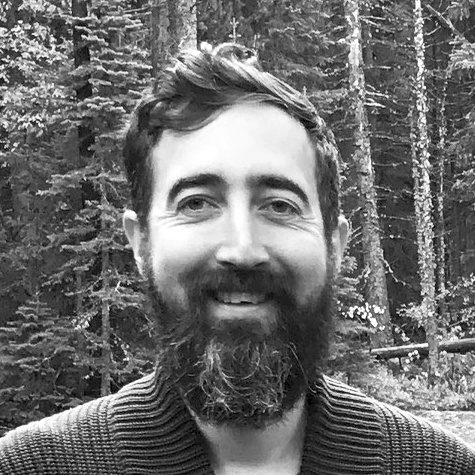
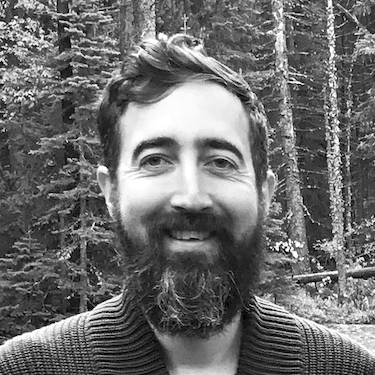
adjusted CSS for iPhone bg

diff --git a/index.html b/index.html
@@ -30,7 +30,7 @@
     <link rel="canonical" href="https://jakesshelton.com">
   </head>
   <body>
-    <section id="intro" style="background-image: url('img/vertrockfog-small.png');" class="intro">       
+    <section style="background-image: url('img/vertrockfog-small.png');" class="intro">       
       <div class="overlay"></div>
       <div class="content">
         <div class="container clearfix">
@@ -181,7 +181,7 @@
             </p>
           </div>
           <div class="col-lg-5 mx-auto">
-            <p id="headshot-container"><img src="img/jssprofbw.png" alt="" class="img-fluid rounded-circle"></p>
+            <a id="headshot-container" href="https://www.linkedin.com/in/thejacobian/" target="_blank" rel="noopener noreferrer"><img src="img/jssprof.png" alt="" class="img-fluid rounded-circle project-thumb"></a>
           </div>
         </div>
       </div>
@@ -195,16 +195,23 @@
             <h2 class="heading">Interests</h2>
             <div class="row">
               <div class="col-md-6">
-                <div class="icon"><img src="img/rockicon.png" class="fa img-icon"></div>
+                <div class="icon"><a href="https://woodhousedenver.bandcamp.com" target="_blank" rel="noopener noreferrer"><img id=rock-icon src="img/rockicon.png" class="fa img-icon"></a></div>
                 <br>
                 <h5>Woodhouse Rock Band</h5>
-                <p>I am a singer-songwriter in a bluesy-alt-rock band with my childhood friends called Woodhouse — not to be confused with Woodhouse Day Spa, which is also great. You can check out our music at <a href="https://woodhousedenver.com" target="_blank" rel="noopener noreferrer" style="color: #fff;">woodhousedenver.com</a> and our latest album on <a href="https://open.spotify.com/album/23i2vQq54rTFP0QoZIgCh4" target="_blank" rel="noopener noreferrer" style="color: #fff;">Spotify.</a> </p>
+                <p>I am a singer-songwriter in a bluesy-alt-rock band with my childhood friends called Woodhouse — not to be confused with Woodhouse Day Spa, which is also great. You can check out our music at 
+                  <a href="https://woodhousedenver.com" target="_blank" rel="noopener noreferrer" style="color: #fff;"> woodhousedenver.com</a> and our latest album on
+                  <a href="https://open.spotify.com/album/23i2vQq54rTFP0QoZIgCh4" target="_blank" rel="noopener noreferrer" style="color: #fff;"> Spotify</a>,
+                  <a href="https://music.apple.com/us/album/last-small-town/1442052257" target="_blank" rel="noopener noreferrer" style="color: #fff;"> iTunes</a>, and
+                  <a href="https://woodhousedenver.bandcamp.com" target="_blank" rel="noopener noreferrer" style="color: #fff;"> Bandcamp.</a>
+                </p>
               </div>
               <div class="col-md-6 interest-div">
-                <div class="icon"><img id=denver-icon src="img/denvericon.png" class="fa"></div>
+                <div class="icon"><a href="https://dug.org" target="_blank" rel="noopener noreferrer"><img id=denver-icon src="img/denvericon.png" class="fa"></a></div>
                 <br>
                 <h5>Denver Urban Gardens</h5>
-                <p>I am also a proud member of a DUG community garden and have discovered a strange ability to grow tomatillos and only tomatillos. Some GA alumni and I are in early development on an HR-like app to support DUG members and Project Angel Heart food donations.</p>
+                <p>I am also a proud member of a DUG community garden and have discovered a strange ability to grow tomatillos and only tomatillos. Some GA alumni and I are in early development on an HR-like app to support
+                  <a href="https://dug.org" target="_blank" rel="noopener noreferrer" style="color: #fff;"> DUG</a> members and 
+                  <a href="https://projectangelheart.org" target="_blank" rel="noopener noreferrer" style="color: #fff;"> Project Angel Heart</a> food donations.</p>
               </div>
             </div>
           </div>
@@ -257,22 +264,22 @@
                 <p>Alternatively, just click the email icon below to open Gmail and drop me a line! </p>
                 <br><br><br>
                 <p class="social">
-                  <a href="https://www.facebook.com/jake.shelton.906" title="facebook" class="facebook">
+                  <a href="https://www.facebook.com/jake.shelton.906" title="facebook" class="facebook" target="_blank" rel="noopener noreferrer">
                     <i class="fa fa-facebook"></i>
                   </a>
                   <a href="https://twitter.com/thejacobianJS" title="twitter" class="twitter">
                     <i class="fa fa-twitter"></i>
                   </a>
-                  <a href="https://www.linkedin.com/in/thejacobian" title="linkedin" class="linkedin">
+                  <a href="https://www.linkedin.com/in/thejacobian/" title="linkedin" class="linkedin" target="_blank" rel="noopener noreferrer">
                     <img src="img/linkedin-closecrop-64px.png" alt="LIMark" class="fa img-fluid">
                   </a>
                   <!-- <a href="https://mail.google.com/mail/?view=cm&fs=1&to=jake.s.shelton@gmail.com&su=Visited your portfolio site&body=" title="" class="gplus">
                     <i class="fa fa-google-plus"></i>
                   </a> -->
                   <a href="https://github.com/thejacobian" title="github" class="github">
-                    <img src="img/github-slightdark-64px.png" alt="GitHubMark" class="fa img-fluid">
+                    <img src="img/github-slightdark-64px.png" alt="GitHubMark" class="fa img-fluid" target="_blank" rel="noopener noreferrer">
                   </a>
-                  <a href="https://mail.google.com/mail/?view=cm&fs=1&to=jake.s.shelton@gmail.com&su=Visited your portfolio site&body=" title="" class="email">
+                  <a href="https://mail.google.com/mail/?view=cm&fs=1&to=jake.s.shelton@gmail.com&su=Visited your portfolio site&body=" title="" class="email" target="_blank" rel="noopener noreferrer">
                     <i class="fa fa-envelope"></i>
                   </a>
                 </p>

diff --git a/css/custom.css b/css/custom.css
@@ -1,4 +1,11 @@
 /* custom styles go here */
+
+.intro {
+  height:100vh !important; /* fix for mobile browser address bar appearing disappearing */
+  z-index:-1 !important; /* needed to keep in the background */
+  background-attachment:scroll !important;
+}
+
 section {
   padding: 100px 0 !important;
 }
@@ -86,7 +93,7 @@ section {
 (max-width: 992px) {
 
   #headshot-container {
-    max-width: 475px;
+    max-width: 300px;
     margin-left: auto;
     margin-right: auto;
   }
